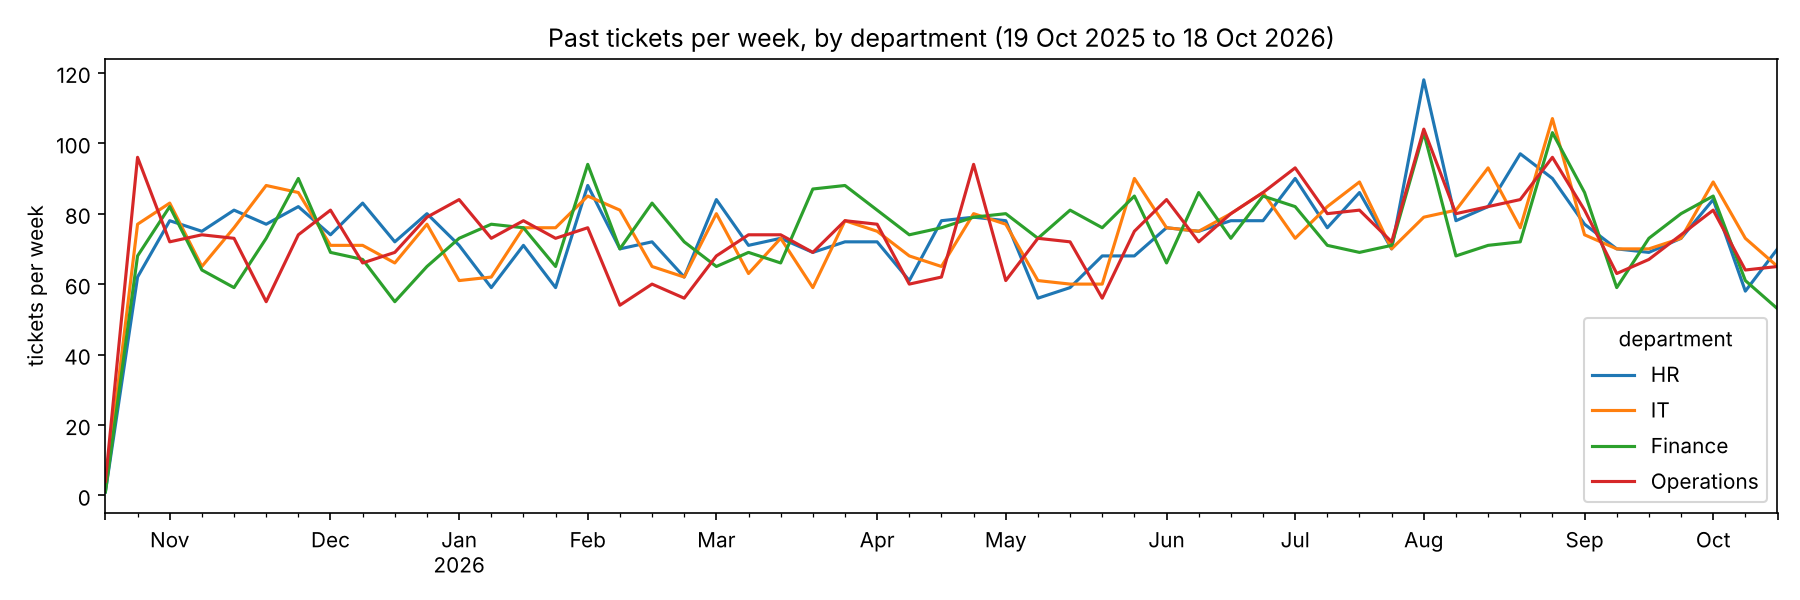
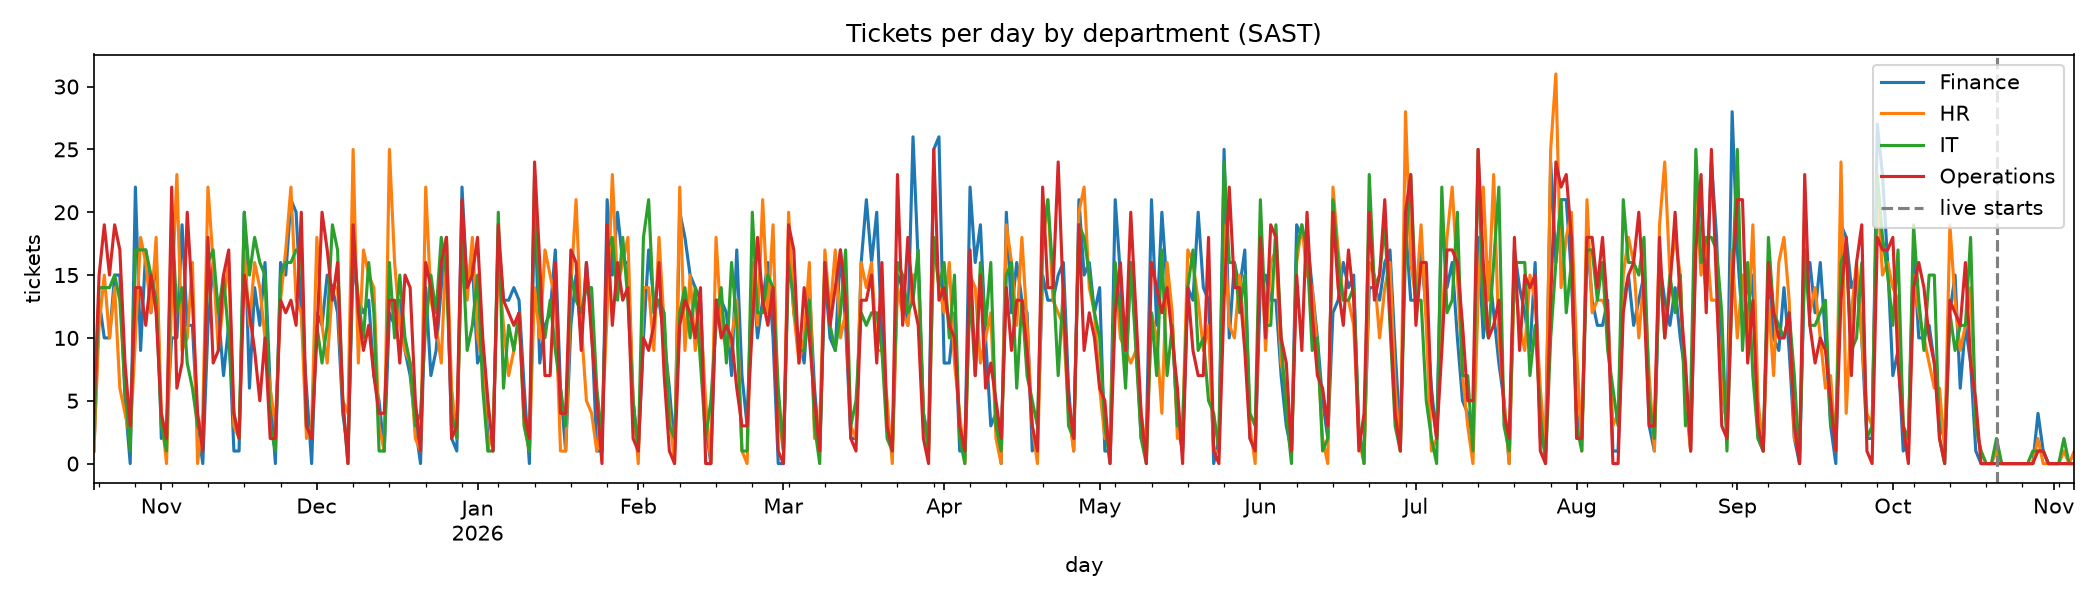
S2-22: forecast method note, limits and history chart; remove duplicate blank table

diff --git a/docs/forecast.md b/docs/forecast.md
@@ -10,10 +10,6 @@ Origin: 8 Oct 2026, four weeks before the last history date (5 Nov 2026). The fo
 | Operations | 26 | 8.3 | 6.5 |
 
 Over the 4 weeks to 5 Nov 2026, the forecast was off by more than a same-as-last-week guess for all four departments. The window spans the drop from the busy historical period to the quiet live period, and the forecast's level and weekday shape are learned from the older data, so it predicts higher volume than arrived. This is one backtest origin, so it's a warning about the method's current behaviour, not a verdict on it.
-| HR | | | |
-| IT | | | |
-| Finance | | | |
-| Operations | | | |
 
 Limits: this is one backtest origin. The window spans the drop from busy historical volume to quiet live volume, so the errors reflect that shift as much as the method. A stronger test would roll the origin across several weeks.
 ## Range (S2-13)
@@ -33,3 +29,29 @@ Output
   - `date`: `YYYY-MM-DD`
   - `expected`: expected tickets that day, one decimal place, never negative
   - `low`, `high`: null until S2-13 adds the range
+
+  ## Method note (S2-22)
+
+Each forecast predicts the next 28 days for one department. It starts from how busy the department has been recently, using the average over the last 14 days. It then spreads that level across the week, using the usual pattern for each weekday from the older history, so a typical Monday is expected to be busier than a Saturday. Days from the 25th of the month onward are raised by how much busier month-end has been over the past year. Each day also gets a range that covers the outcomes we would expect for a count of that size. The range is wider when the expected number is small. The forecast is a guide to typical volume, not a promise.
+
+![Tickets per day by department, with the start of the live period marked](forecast/daily-history.png)
+
+**Limits**
+
+- Public holidays are not modelled. A holiday week will look like a normal week, or a quiet one.
+- Some past tickets (before 21 Oct 2026) have their response and close dates set when the data was loaded, not when the events happened, so the timing of that year's data is approximate.
+- The live data is short: 19 tickets so far, and about five for HR. The recent level for HR rests on very few tickets.
+- Requests of a new kind, or a change in how the business works, will not show up until they appear in the data.
+- The 19–20 October 2026 gap is excluded, so it is not treated as a day of zero volume.
+- The backtest covers one starting point, 8 October 2026. In that window the forecast was off by more than a same-as-last-week guess for all four departments (see the accuracy table above). Treat the forecast as less reliable than that simple benchmark until this has been looked at again.
+- The ranges come from a statistical model, so they may cover fewer than 8 in 10 real days.
+
+**Limits**
+
+- Past ticket dates are assigned, not recorded. The response and close dates for tickets before 21 Oct 2026 were set when the data was loaded, so their timing is approximate.
+- Public holidays are not modelled. A holiday week will look like a normal week, or a quiet one.
+- New kinds of request are not known to the forecast until they appear in the data.
+- The live data is short: 19 tickets so far, about five for HR. The HR recent level rests on very few tickets.
+- The 19–20 October 2026 gap is excluded, so it is not treated as a day of zero volume.
+- The backtest covers one starting point, 8 October 2026. In that window the forecast was off by more than a same-as-last-week guess for all four departments (see the accuracy table above). Treat the forecast as less reliable than that benchmark until this has been looked at again.
+- The ranges come from a statistical model, so they may cover fewer than 8 in 10 real days.
